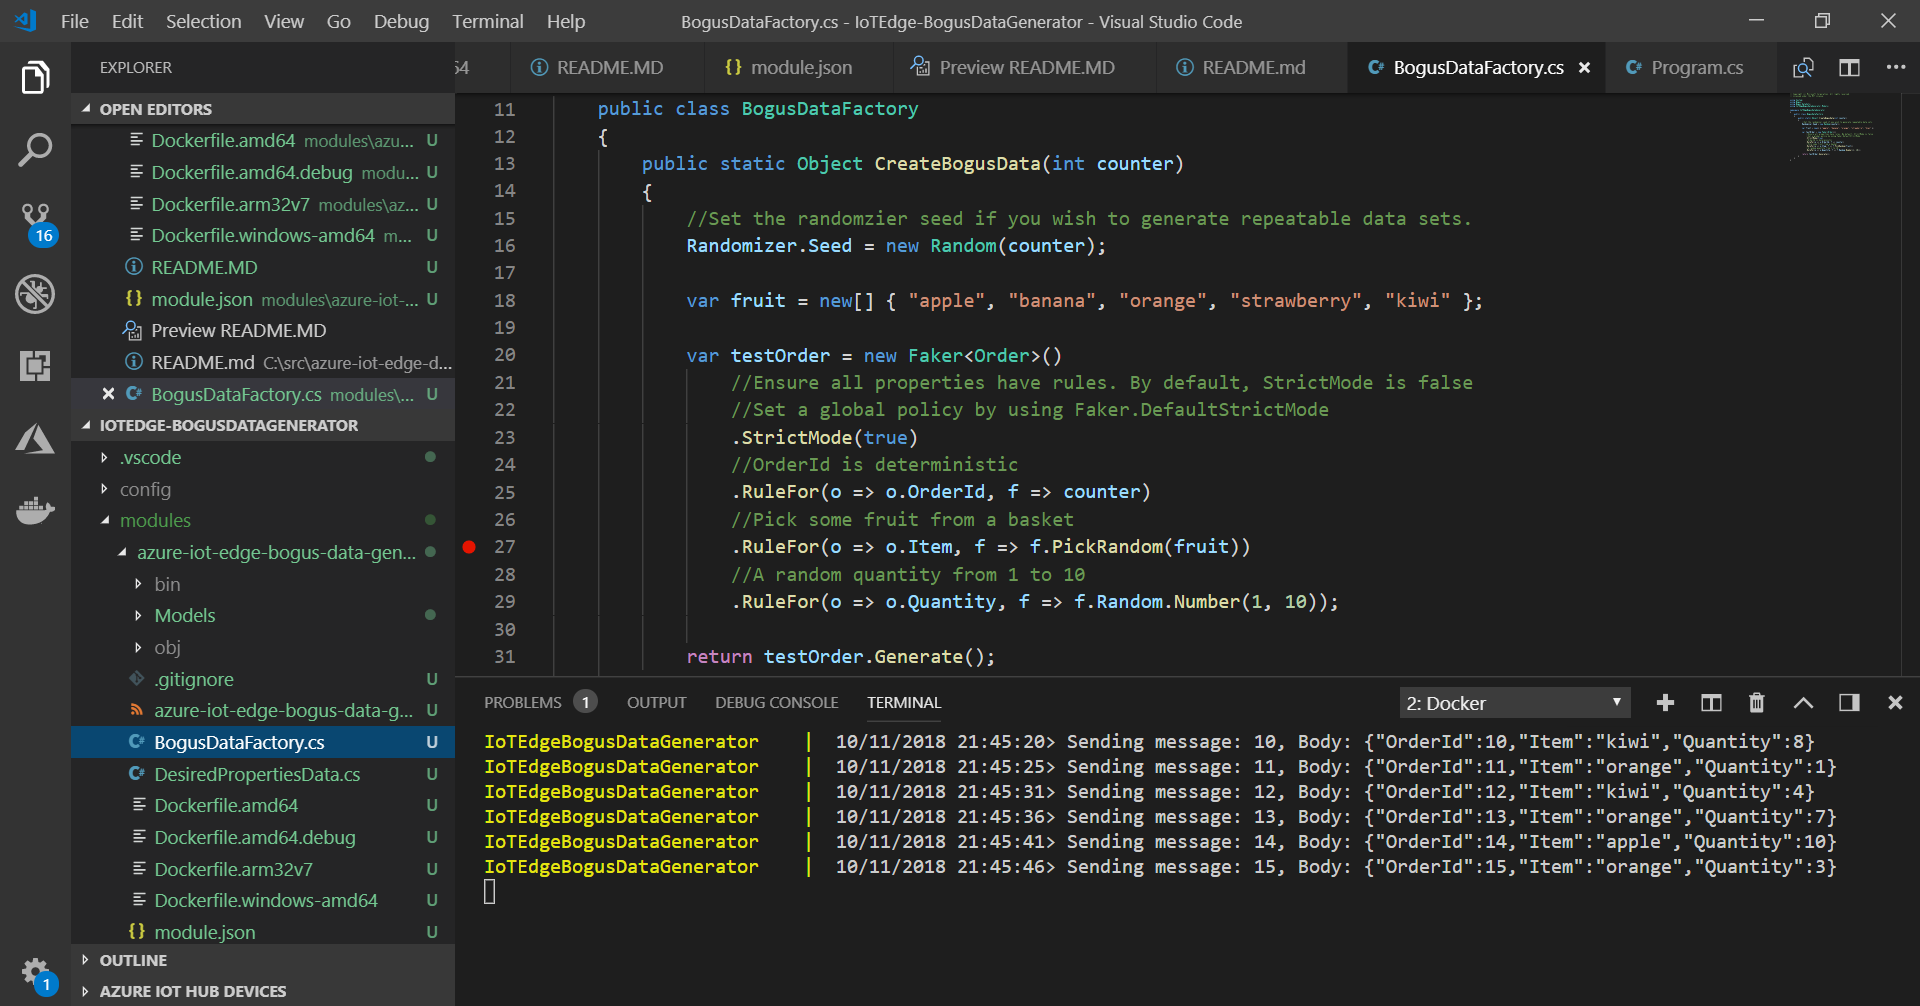
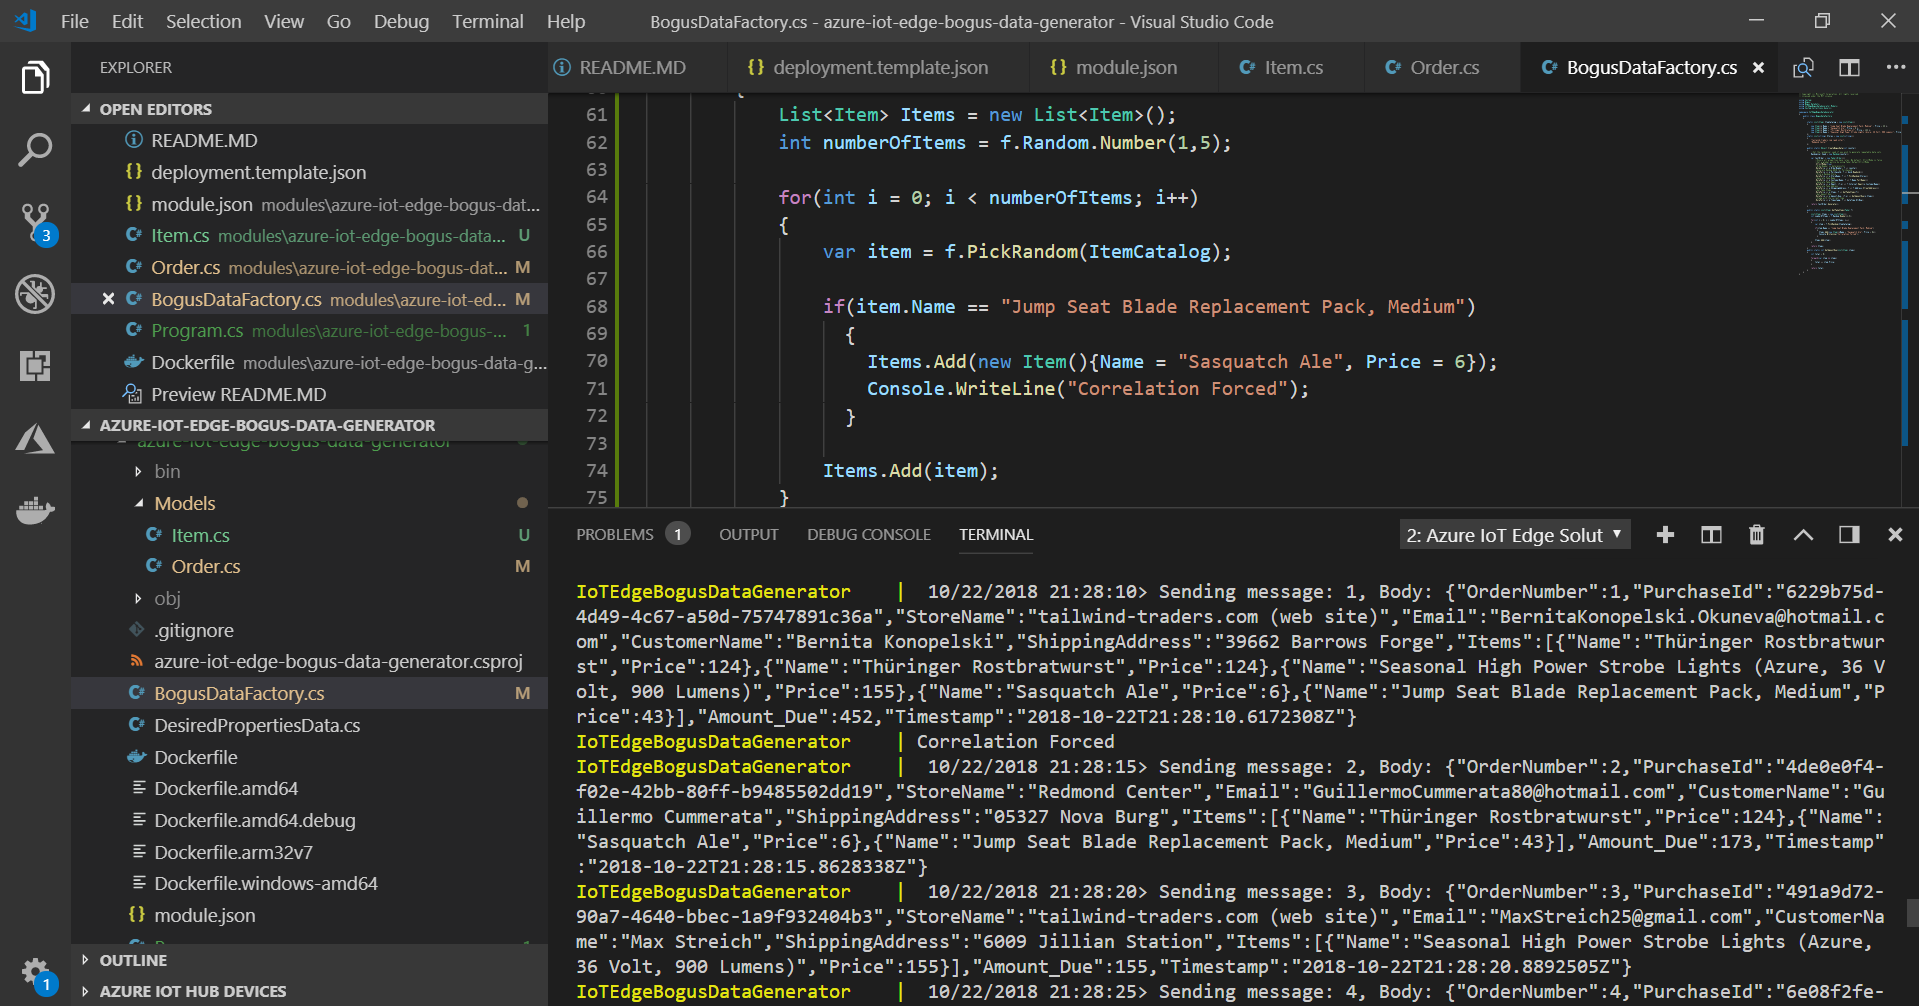
Update Generated data

diff --git a/modules/azure-iot-edge-bogus-data-generator/BogusDataFactory.cs b/modules/azure-iot-edge-bogus-data-generator/BogusDataFactory.cs
@@ -5,30 +5,87 @@ using System;
 using Bogus;
 using Bogus.DataSets;
 using IoTEdgeBogusDataGenerator.Models;
+using System.Collections.Generic;
 
 namespace IoTEdgeBogusDataGenerator
 {
     public class BogusDataFactory
     {
+
+        static List<Item> ItemCatalog = new List<Item>()
+        {
+            new Item(){ Name = "Jump Seat Blade Replacement Pack, Medium" , Price = 43 },
+            new Item(){ Name = "Sasquatch Ale", Price = 6 },
+            new Item(){ Name = "Thüringer Rostbratwurst", Price = 124 },
+            new Item(){ Name = "Seasonal High Power Strobe Lights (Azure, 36 Volt, 900 Lumens)", Price = 155 }
+        };
+        static List<string> Stores = new List<string>()
+        {
+            "tailwind-traders.com (web site)",
+            "Redmond Center"
+        };
+
         public static Object CreateBogusData(int counter)
         {
             //Set the randomzier seed if you wish to generate repeatable data sets.
             Randomizer.Seed = new Random(counter);
 
-            var fruit = new[] { "apple", "banana", "orange", "strawberry", "kiwi" };
-
             var testOrder = new Faker<Order>()
                 //Ensure all properties have rules. By default, StrictMode is false
                 //Set a global policy by using Faker.DefaultStrictMode
                 .StrictMode(true)
-                //OrderId is deterministic
-                .RuleFor(o => o.OrderId, f => counter)
-                //Pick some fruit from a basket
-                .RuleFor(o => o.Item, f => f.PickRandom(fruit))
-                //A random quantity from 1 to 10
-                .RuleFor(o => o.Quantity, f => f.Random.Number(1, 10));
+                //OrderNumber is deterministic
+                .RuleFor(o => o.OrderNumber, f => counter)
+                //Generate Random GUID for PurchaseId
+                .RuleFor(o => o.PurchaseId, f => Guid.NewGuid())
+                //Pick a Random Store
+                .RuleFor(o => o.StoreName, f => f.PickRandom(Stores))
+                //Generate Fake Name
+                .RuleFor(o => o.CustomerName, f => f.Name.FullName())
+                //Generate Fake Email
+                .RuleFor(o => o.Email, (f,o) => f.Internet.Email(o.CustomerName))
+                //Generate Fake Address
+                .RuleFor(o => o.ShippingAddress, f => f.Address.StreetAddress())
+                //Get Fake Items
+                .RuleFor(o => o.Items, f => GetFakeItems(f))
+                //Get Amount Due
+                .RuleFor(o => o.Amount_Due, (f,o) => GetAmountDue(o.Items))
+                //Stamp with the current time
+                .RuleFor(o => o.Timestamp, f => DateTime.UtcNow);
 
             return testOrder.Generate();
+        }
+
+        public static List<Item> GetFakeItems(Faker f)
+        {
+            List<Item> Items = new List<Item>();
+            int numberOfItems = f.Random.Number(1,5);
+
+            for(int i = 0; i < numberOfItems; i++)
+            {
+                var item = f.PickRandom(ItemCatalog);
+                
+                if(item.Name == "Jump Seat Blade Replacement Pack, Medium")
+                  {
+                    Items.Add(new Item(){Name = "Sasquatch Ale", Price = 6});
+                    Console.WriteLine("Correlation Forced");
+                  }  
+
+                Items.Add(item);
+            }
+
+            return Items;
+        }
+        public static int GetAmountDue(List<Item> items)
+        {
+            int total = 0;
+
+            foreach(var item in items)
+            {
+                total += item.Price;
+            }
+
+            return total;
         }
     }
 }

diff --git a/modules/azure-iot-edge-bogus-data-generator/Models/Order.cs b/modules/azure-iot-edge-bogus-data-generator/Models/Order.cs
@@ -1,10 +1,19 @@
+using System;
+using System.Collections.Generic;
+
 namespace IoTEdgeBogusDataGenerator.Models
 {
    public class Order
    {
-      public int OrderId { get; set; }
-      public string Item { get; set; }
-      public int Quantity { get; set; }
+      public int OrderNumber { get; set; }
+      public Guid PurchaseId { get; set; }
+      public string StoreName { get; set; }
+      public string Email {get; set;}
+      public string CustomerName { get; set;}
+      public string ShippingAddress { get; set; }
+      public List<Item> Items { get; set; }
+      public int Amount_Due { get; set; }
+      public DateTime Timestamp { get; set; } 
    }
 
 }

diff --git a/modules/azure-iot-edge-bogus-data-generator/Models/Item.cs b/modules/azure-iot-edge-bogus-data-generator/Models/Item.cs
@@ -1,0 +1,11 @@
+using System;
+
+namespace IoTEdgeBogusDataGenerator.Models
+{
+   public class Item
+   {
+      public string Name { get; set; }
+      public int Price { get; set; }
+   }
+
+}
